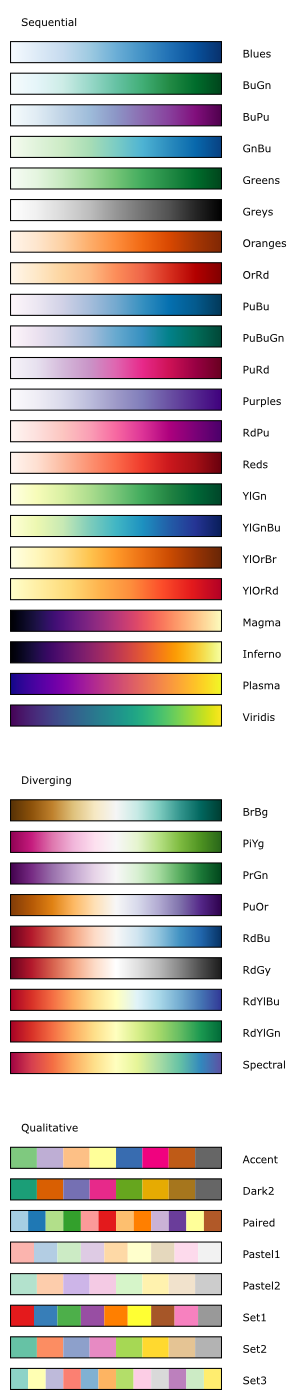
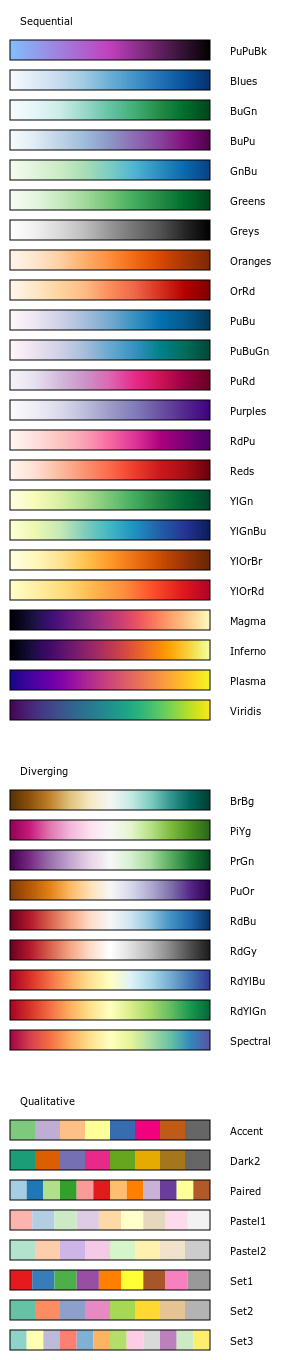
Add our blue purple black color list.

diff --git a/lib/genesis/utils/tools/color/sequential_lists.cpp b/lib/genesis/utils/tools/color/sequential_lists.cpp
@@ -44,6 +44,15 @@ namespace utils {
 //     ColorBrewer Diverging Color Lists
 // =================================================================================================
 
+/**
+ * @brief Our own color list used for visualizing trees.
+ */
+const std::vector<Color> color_list_pupubk_ = {{
+    { 0.505882353, 0.749019608, 1.0 },         // light blue #81bfff
+    { 0.752941176, 0.250980392, 0.745098039 }, // purple     #c040be
+    { 0.0, 0.0, 0.0 }                          // black      #000000
+}};
+
 /*
  * These ColorBrewer color palettes are adapted from https://github.com/axismaps/colorbrewer and
  * https://github.com/Gnuplotting/gnuplot-palettes by converting the colors to RGB `double` values.
@@ -1369,6 +1378,11 @@ const std::vector<Color> color_list_viridis_ = {{
 //     Color Lists Functions
 // =================================================================================================
 
+std::vector<Color> const& color_list_pupubk()
+{
+    return color_list_pupubk_;
+}
+
 std::vector<Color> const& color_list_blues()
 {
     return color_list_blues_;
@@ -1485,6 +1499,9 @@ std::vector<Color> const& color_list_viridis()
 
 std::vector<Color> const& sequential_color_list( SequentialColorList palette )
 {
+    if( palette == SequentialColorList::kPupubk ) {
+        return color_list_pupubk_;
+    }
     if( palette == SequentialColorList::kBlues ) {
         return color_list_blues_;
     }
@@ -1559,6 +1576,9 @@ std::vector<Color> const& sequential_color_list( std::string const& palette )
 {
     auto const p = to_lower_ascii( palette );
 
+    if( p == "pupubk" ) {
+        return color_list_pupubk_;
+    }
     if( p == "blues" ) {
         return color_list_blues_;
     }
@@ -1632,6 +1652,7 @@ std::vector<Color> const& sequential_color_list( std::string const& palette )
 std::vector<std::string> sequential_color_list_names()
 {
     return {
+        "PuPuBk",
         "Blues",
         "BuGn",
         "BuPu",

diff --git a/lib/genesis/utils/tools/color/sequential_lists.hpp b/lib/genesis/utils/tools/color/sequential_lists.hpp
@@ -44,6 +44,15 @@ namespace utils {
 // =================================================================================================
 
 /**
+ * @brief Color Palette `bupubk`.
+ *
+ * Provides a sequential blue color palette of light blue, purple and black.
+ * Particularly useful for visualizing trees, as the light blue is still visible when
+ * used to color branches.
+ */
+std::vector<Color> const& color_list_pupubk();
+
+/**
  * @brief Color palette `blues`.
  *
  * Provides a sequential blue color palette of increasing saturation.
@@ -243,6 +252,7 @@ std::vector<Color> const& color_list_viridis();
 
 enum class SequentialColorList
 {
+    kPupubk,
     kBlues,
     kBugn,
     kBupu,
